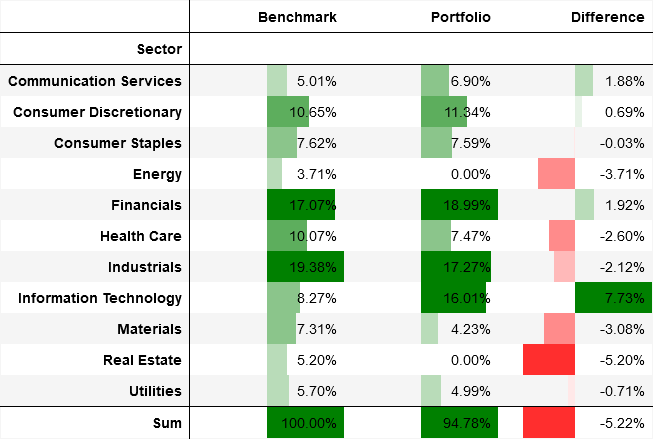
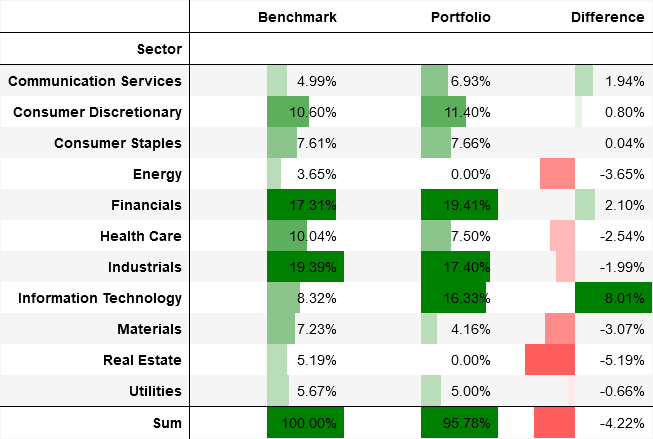
update

diff --git a/bm.py b/bm.py
@@ -362,7 +362,7 @@ def plot_hedge(df: pd.DataFrame, fund: str):
 def generate_allocation_report():
     sxxp, spx, benchmark = get_benchmark_positions()
 
-    name = "D&R Aktien"
+    name = "D&R Aktien Nachhaltigkeit"
     aktien = get_account_positions(id=mandate.get(name))
 
     aktien_sector, aktien_region = plot_combined_dataframe(benchmark, aktien, name)
